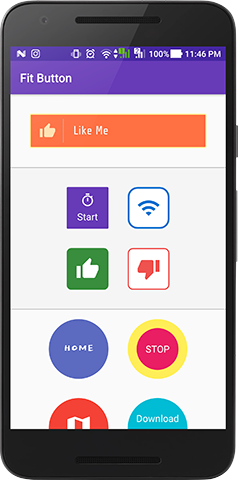
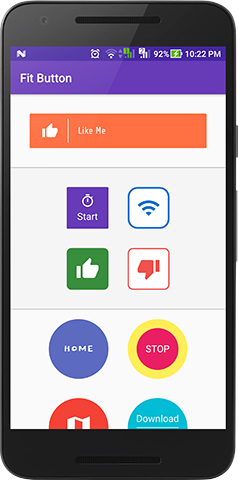
Fixed readme

diff --git a/README.md b/README.md
@@ -32,6 +32,7 @@ Adjust the XML view:
     android:layout_height="58dp"
     android:layout_margin="32dp"
     android:enabled="true"
+    android:gravity="center_vertical"
     app:fb_cornerRadius="2dp"
     app:fb_shape="rectangle"
     app:fb_divColor="#fff"
@@ -41,13 +42,12 @@ Adjust the XML view:
     app:fb_iconWidth="28dp"
     app:fb_iconHeight="28dp"
     app:fb_iconPosition="left"
-    app:fb_iconMarginStart="30dp"
+    app:fb_iconMarginStart="20dp"
     app:fb_iconMarginEnd="16dp"
     app:fb_icon="@drawable/ic_thumb_up"
-    app:fb_iconColor="#FBE9E7"
+    app:fb_iconColor="#FFF"
     app:fb_textPaddingStart="16dp"
     app:fb_textColor="#FFF"
-    app:fb_textGravity="start|center"
     app:fb_text="Like Me"
     app:fb_backgroundColor="#FF7043"/>
 ```
@@ -57,11 +57,13 @@ private fun setupButton() {
     fitButton = findViewById(R.id.fbtn)
     fitButton!!
             .setTextFont(R.font.share_tech_regular)
+            .setWidth(250)
+            .setHeight(70)
             .setTextSize(20f)
             .setIconMarginStart(16f)
             .setIconMarginEnd(12f)
             .setTextColor(Color.parseColor("#F5F5F5"))
-            .setIconColor(Color.parseColor("#FFE0B2"))
+            .setIconColor(Color.parseColor("#FFFFFF"))
             .setDividerColor(Color.parseColor("#BCAAA4"))
             .setBorderColor(Color.parseColor("#FFF59D"))
             .setButtonColor(Color.parseColor("#FF7043"))
